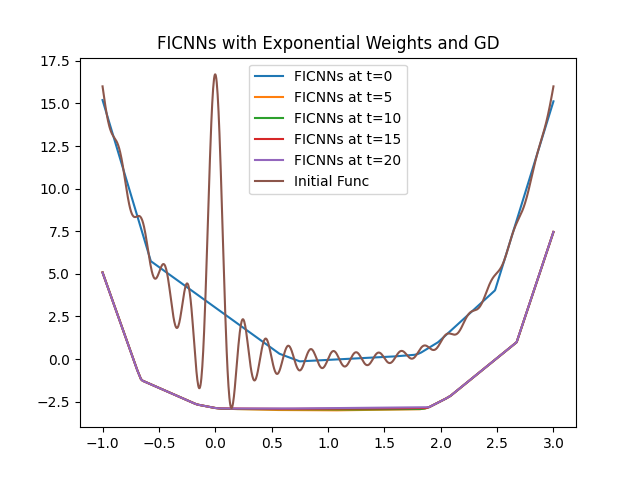
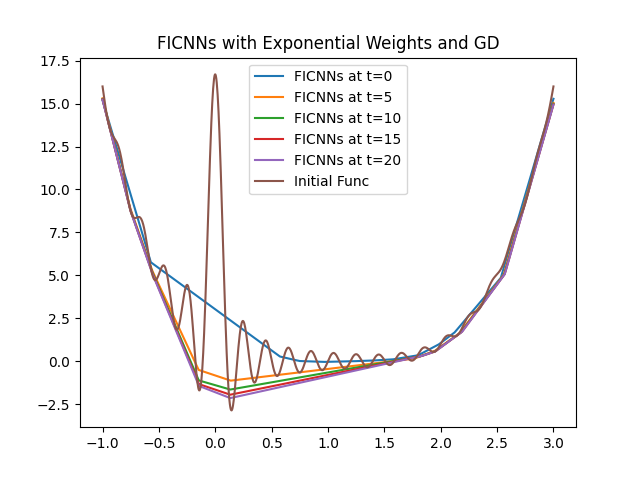
stablize training

diff --git a/1D_benchmark/one_dim_eval.py b/1D_benchmark/one_dim_eval.py
@@ -1,0 +1,91 @@
+import torch
+import torch.nn as nn
+import torch.nn.functional as F
+import matplotlib.pyplot as plt
+import numpy as np
+from one_dim_funcs import gramacy_and_lee, dyhotomy
+import numdifftools as nd
+from torch.nn.parameter import Parameter
+import init
+import math
+
+class FICNNs(nn.Module):
+    def __init__(self):
+        super(FICNNs, self).__init__()
+        self.fc0_y = nn.Linear(1, 32)
+        self.fc1_y = nn.Linear(1, 32)
+        self.fc2_y = nn.Linear(1, 1)
+
+        # Set weights and bias for z
+        self.z1_W = Parameter(torch.empty((32, 32))).requires_grad_(True)
+        init.kaiming_uniform_(self.z1_W, a=math.sqrt(5))
+        self.z2_W = Parameter(torch.empty((1, 32))).requires_grad_(True)
+        init.kaiming_uniform_(self.z2_W, a=math.sqrt(5))
+    
+    def forward(self,y):
+        z_1 = torch.relu(self.fc0_y(y))
+        z_2 = torch.relu(self.fc1_y(y)+F.linear(z_1, torch.exp(self.z1_W), None))
+        z_3 = self.fc2_y(y)+F.linear(z_1, torch.exp(self.z2_W), None)
+        return z_3
+    
+model = torch.load('./models/1d_benchmark.pt')
+model.eval()
+
+# t = torch.tensor(50)
+# x = torch.linspace(-2,2,1000).unsqueeze(1)
+# print(x.shape)
+# # Calculate the value of the function and its gradient
+# y = model(torch.cat([t.expand_as(x), x],dim=1))
+# plt.plot(x.squeeze(1).detach().numpy(), y.squeeze(1).detach().numpy())
+
+SEED_list = [1,2,3,4,5,6,7,8,9,10]
+
+total_iteration = 20000
+gamma = 0.999
+beta = 0.001
+eta=0.001
+t = 50
+M = 50
+final_result = []
+
+# Define the starting point for optimization
+t = torch.tensor([t])
+# Define the learning rate for gradient descent
+lr = torch.tensor(beta)
+
+x_optimal = dyhotomy(0.5, 0.6, 0.0001)
+x_min = -1
+x_max = 3
+
+# Optimization loop
+for seed in SEED_list:
+    np.random.seed(seed=seed)
+    x_opt = torch.tensor(np.random.uniform(x_min,x_max), requires_grad=False).expand(1,1)
+    print("x_initial is: ",x_opt)
+    
+    for i in range(total_iteration):
+        x = x_opt.clone().requires_grad_(True)
+
+        # Calculate the value of the function and its gradient
+        y = model(x)
+        grad = torch.autograd.grad(y, x, create_graph=True)[0]
+
+        # Perform gradient descent update
+        with torch.no_grad():
+            x_opt = x - beta * grad
+    print("final x is: ",x_opt)
+    errorx = np.linalg.norm(x_opt-x_optimal)
+    errory = np.linalg.norm(gramacy_and_lee(x_opt)- gramacy_and_lee(x_optimal))
+    with open("./results/autohomotopy_1d_eval.txt", "a") as f:
+        f.write("seed {}: error (input) is {}, error (output) is {}\n".format(seed, errorx, errory))
+
+
+
+
+# x_min = -2
+# x_max = 2
+# x = np.linspace(x_min, x_max, 1000)
+# x = torch.tensor(x, requires_grad=False, dtype=torch.float32).unsqueeze(1)
+# u = model(torch.cat([t.expand_as(x), x], dim=1))
+# plt.plot(x.clone().squeeze(1).detach().numpy(), u.clone().squeeze(1).detach().numpy(), label='F(x,t=50)')
+# plt.show()

diff --git a/1D_benchmark/FICNNs_exp_GD_opt.py b/1D_benchmark/FICNNs_exp_GD_opt.py
@@ -32,7 +32,7 @@ class FICNNs(nn.Module):
 # Define the domain
 x_min = -1
 x_max = 3
-t_max = 20
+t_max = 60
 x = np.linspace(x_min, x_max, 1000)
 num_points = 10000
 
@@ -60,7 +60,6 @@ for i in range(t_max+1):
         if i==0:
             loss = torch.mean((u - u_initial)**2, dim=0) # force the neural net learn the function
         else:
-            ut = torch.minimum(u_initial,u)
             loss = torch.mean((u - ut)**2, dim=0)
         
         # Backpropagation
@@ -73,9 +72,11 @@ for i in range(t_max+1):
         if epoch % 1000 == 0:
             print(f'Epoch [{epoch}/{num_epochs}], Loss: {loss.item():.8f}')
 
-    if i % 5 == 0:
+    if i % 20 == 0:
         plt.plot(x.detach().numpy(),u.detach().numpy(),label='FICNNs at t='+str(i))
-
+    
+    ut = torch.minimum(u_initial,u.detach())
+    
     # Do GD
     x_opt = torch.tensor(np.random.uniform(x_min,x_max), requires_grad=False).expand(1,1)
     print("x_initial is: ",x_opt)
@@ -115,8 +116,10 @@ for i in range(t_max+1):
             if k % 1000 == 0:
                 print(f'Re-training Epoch [{k}/{num_epochs}], Loss: {loss.item():.8f}')
 
+torch.save(model, './models/1d_benchmark.pt')
+
 plt.plot(x.detach().numpy(),u_initial.detach().numpy(),label='Initial Func')
 plt.legend()
 plt.title("FICNNs with Exponential Weights and GD")
-plt.savefig("./figures/FICNNs_exp_min_GD_opt.png")
+plt.savefig("./figures/FICNNs_exp_min_GD_opt_t_{}.png".format(t_max))
 plt.show()

diff --git a/1D_benchmark/FICNNs_exp_min_GD_all.py b/1D_benchmark/FICNNs_exp_min_GD_all.py
@@ -32,7 +32,7 @@ class FICNNs(nn.Module):
 # Define the domain
 x_min = -1
 x_max = 3
-t_max = 20
+t_max = 60
 x = np.linspace(x_min, x_max, 1000)
 num_points = 10000
 
@@ -60,7 +60,6 @@ for i in range(t_max+1):
         if i==0:
             loss = torch.mean((u - u_initial)**2, dim=0) # force the neural net learn the function
         else:
-            ut = torch.minimum(u_initial,u)
             loss = torch.mean((u - ut)**2, dim=0)
         
         # Backpropagation
@@ -73,8 +72,10 @@ for i in range(t_max+1):
         if epoch % 1000 == 0:
             print(f'Epoch [{epoch}/{num_epochs}], Loss: {loss.item():.8f}')
 
-    if i % 5 == 0:
+    if i % 20 == 0:
         plt.plot(x.detach().numpy(),u.detach().numpy(),label='FICNNs at t='+str(i))
+
+    ut = torch.minimum(u_initial,u.detach())
 
     # Do GD
     x_opt = torch.tensor(np.random.uniform(x_min,x_max), requires_grad=False).expand(1,1)
@@ -119,5 +120,5 @@ for i in range(t_max+1):
 plt.plot(x.detach().numpy(),u_initial.detach().numpy(),label='Initial Func')
 plt.legend()
 plt.title("FICNNs with Exponential Weights and GD")
-plt.savefig("./figures/FICNNs_exp_min_GD_all.png")
+plt.savefig("./figures/FICNNs_exp_min_GD_all_t_{}.png".format(t_max))
 plt.show()

diff --git a/1D_benchmark/FICNNs_GD_opt.py b/1D_benchmark/FICNNs_GD_opt.py
@@ -55,7 +55,6 @@ for i in range(t_max+1):
         if i==0:
             loss = torch.mean((u - u_initial)**2, dim=0) # force the neural net learn the function
         else:
-            ut = torch.minimum(u_initial,u)
             loss = torch.mean((u - ut)**2, dim=0)
         
         # Backpropagation
@@ -76,6 +75,8 @@ for i in range(t_max+1):
 
     if i % 5 == 0:
         plt.plot(x.detach().numpy(),u.detach().numpy(),label='FICNNs at t='+str(i))
+    
+    ut = torch.minimum(u_initial,u).detach()
 
     # Do GD
     x_opt = torch.tensor(np.random.uniform(x_min,x_max), requires_grad=False).expand(1,1)

diff --git a/1D_benchmark/FICNNs_min_GD_all.py b/1D_benchmark/FICNNs_min_GD_all.py
@@ -55,7 +55,6 @@ for i in range(t_max+1):
         if i==0:
             loss = torch.mean((u - u_initial)**2, dim=0) # force the neural net learn the function
         else:
-            ut = torch.minimum(u_initial,u)
             loss = torch.mean((u - ut)**2, dim=0)
         
         # Backpropagation
@@ -76,6 +75,8 @@ for i in range(t_max+1):
 
     if i % 5 == 0:
         plt.plot(x.detach().numpy(),u.detach().numpy(),label='FICNNs at t='+str(i))
+    
+    ut = torch.minimum(u_initial,u).detach()
 
     # Do GD
     x_opt = torch.tensor(np.random.uniform(x_min,x_max), requires_grad=False).expand(1,1)
